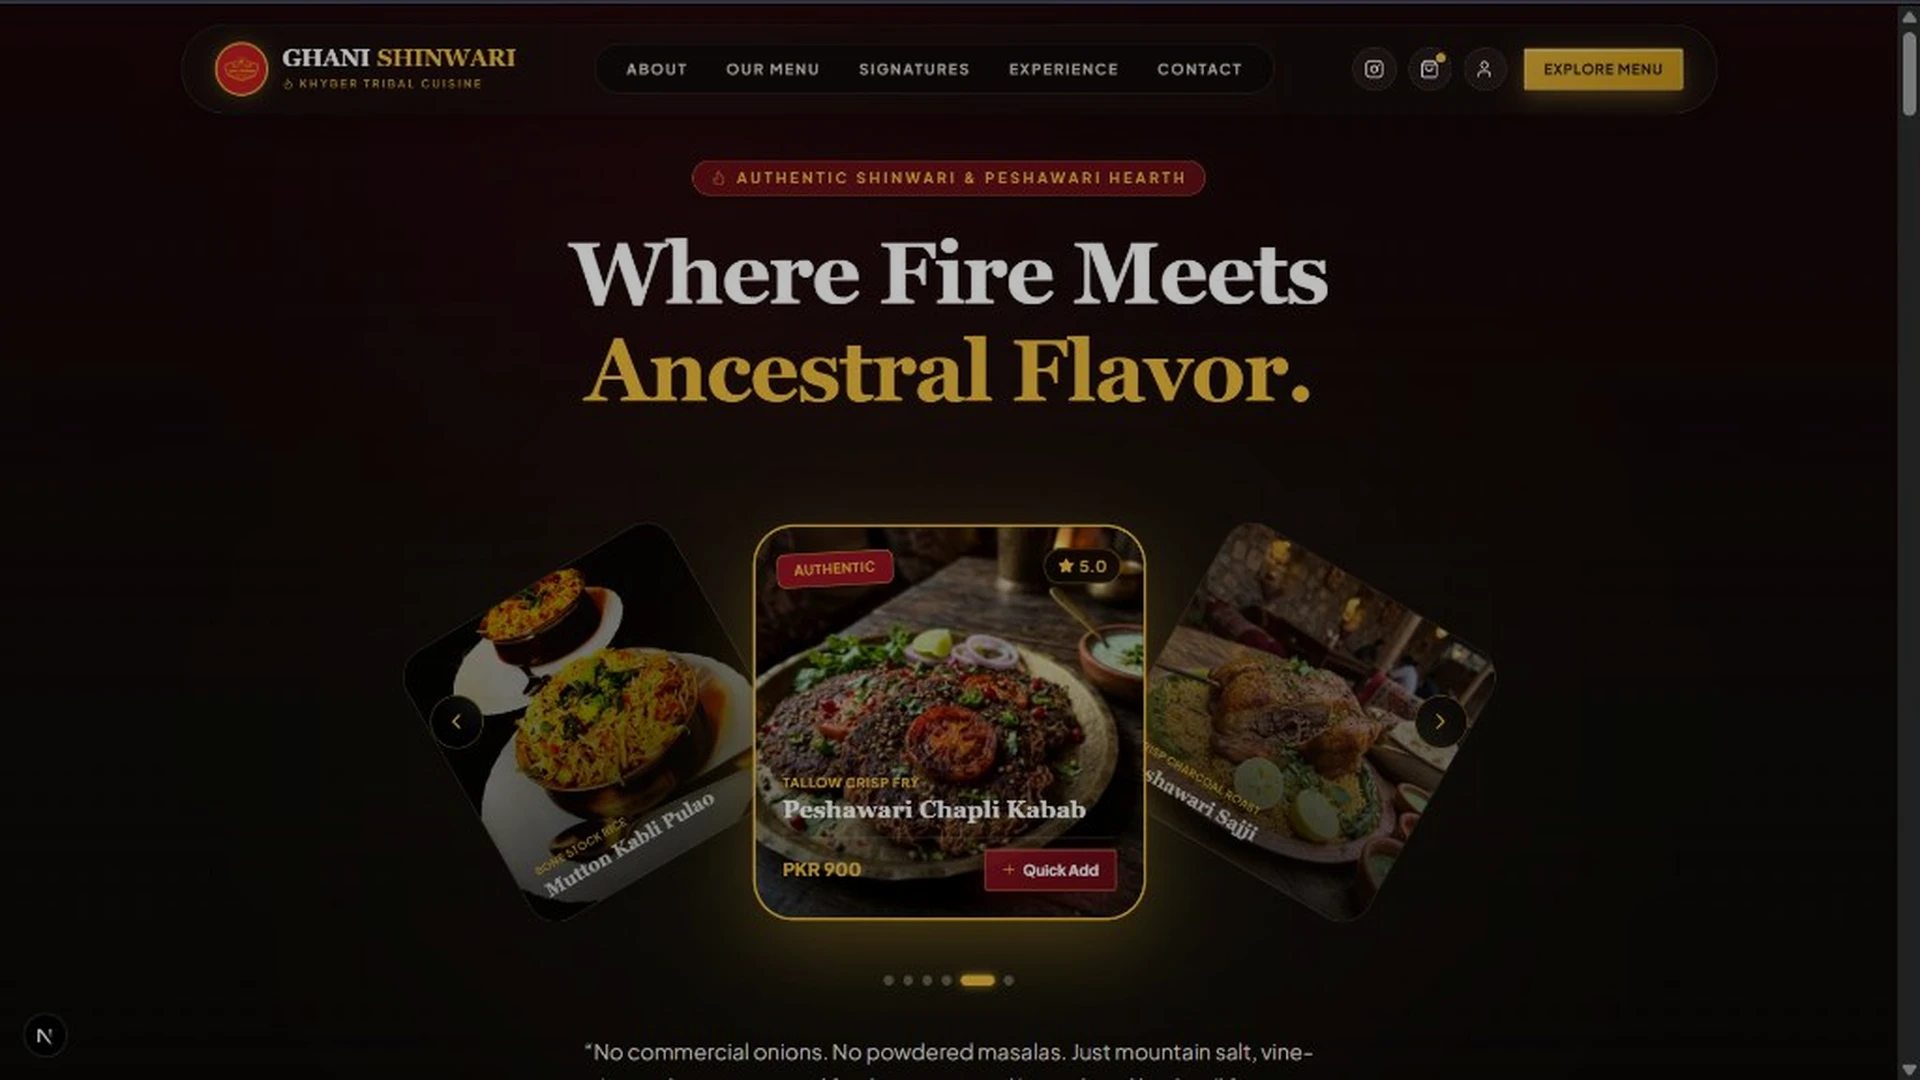
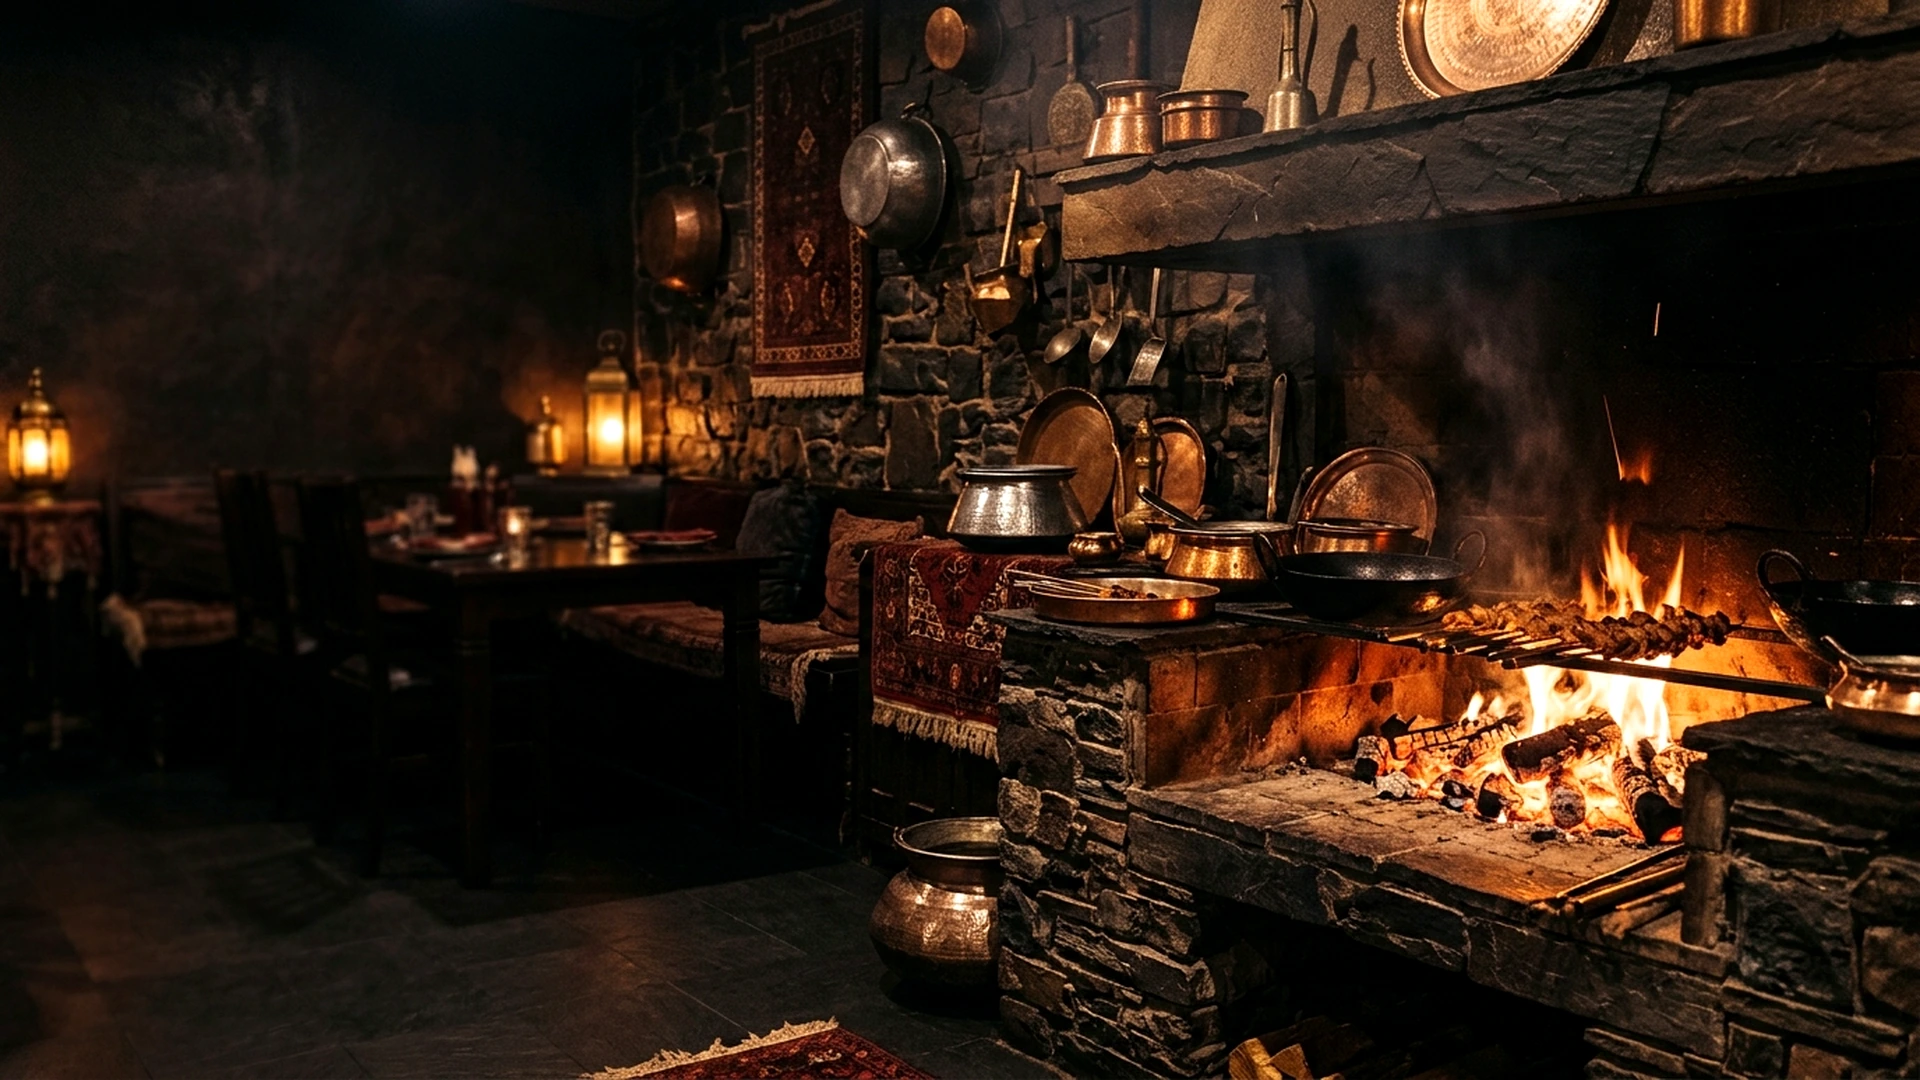
Update Hero background with luxury authentic stone hearth and charcoal ember interior photography

diff --git a/src/components/sections/BrandHero.tsx b/src/components/sections/BrandHero.tsx
@@ -29,14 +29,13 @@ export function BrandHero() {
           fill
           priority
           sizes="100vw"
-          className="object-cover object-center scale-105 filter brightness-75 contrast-110"
+          className="object-cover object-center filter brightness-90 contrast-105"
         />
 
-        {/* Deep cinematic vignette & warm hearth glow overlays */}
-        <div className="absolute inset-0 bg-gradient-to-r from-[#140608]/95 via-[#140608]/85 to-[#140608]/70" />
-        <div className="absolute inset-0 bg-gradient-to-t from-[#140608] via-transparent to-[#140608]/80" />
-        <div className="absolute inset-0 bg-[radial-gradient(ellipse_at_70%_50%,rgba(230,184,63,0.12),transparent_60%)]" />
-        <div className="absolute inset-0 bg-[radial-gradient(circle_at_20%_40%,rgba(143,23,37,0.35),transparent_50%)]" />
+        {/* Sophisticated editorial vignette & warm hearth lighting */}
+        <div className="absolute inset-0 bg-gradient-to-r from-[#140608]/95 via-[#140608]/75 to-transparent" />
+        <div className="absolute inset-0 bg-gradient-to-t from-[#140608] via-transparent to-[#140608]/70" />
+        <div className="absolute inset-0 bg-[radial-gradient(circle_at_25%_40%,rgba(143,23,37,0.25),transparent_60%)]" />
       </div>
 
       {/* 2. Main Content Container */}
